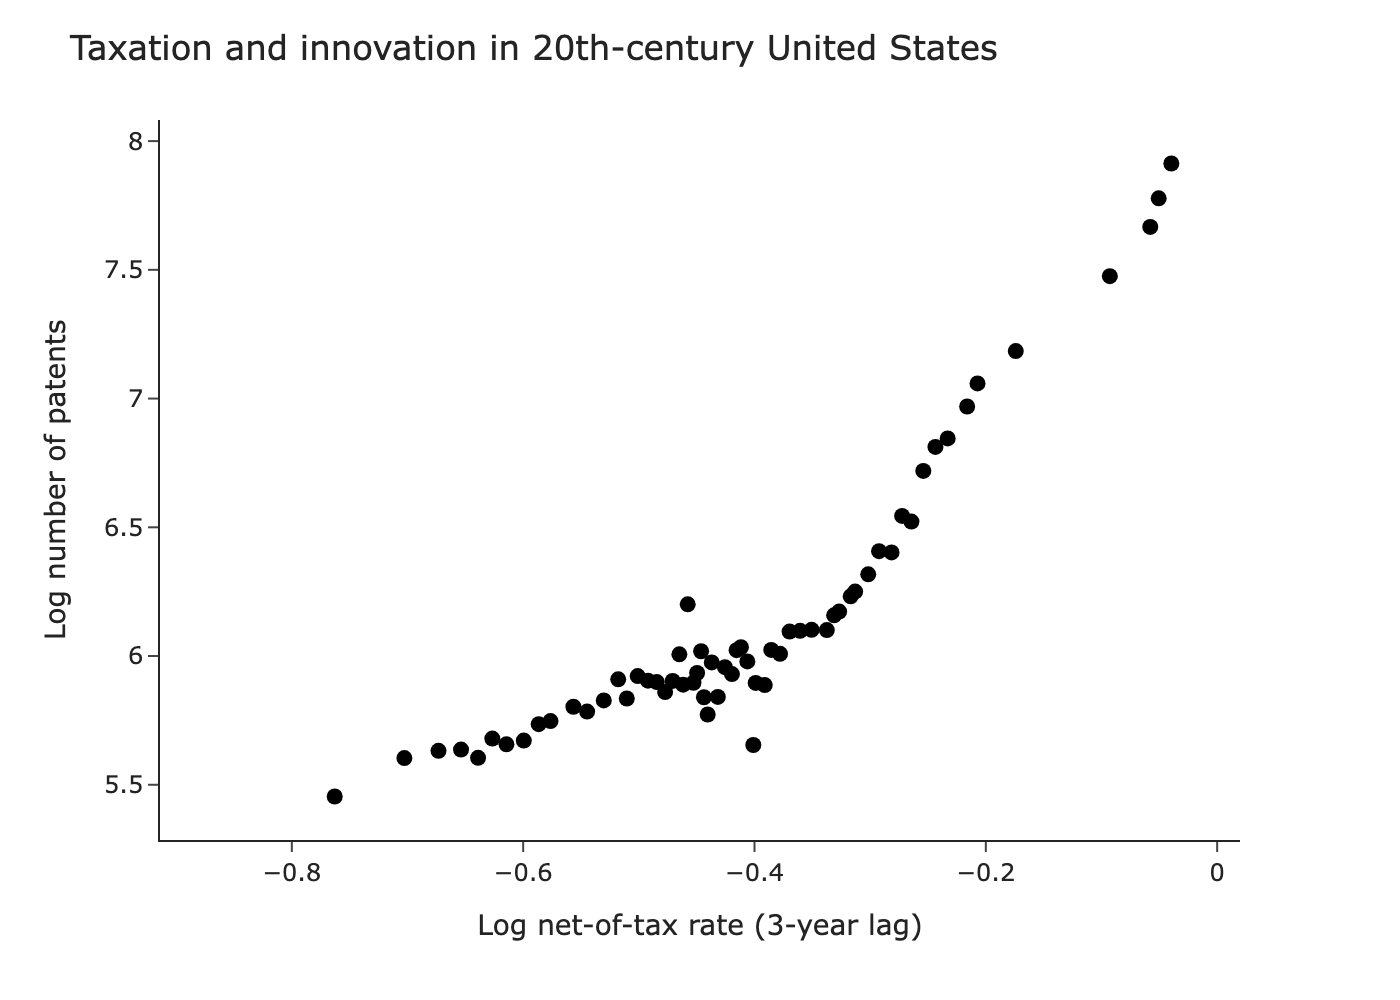
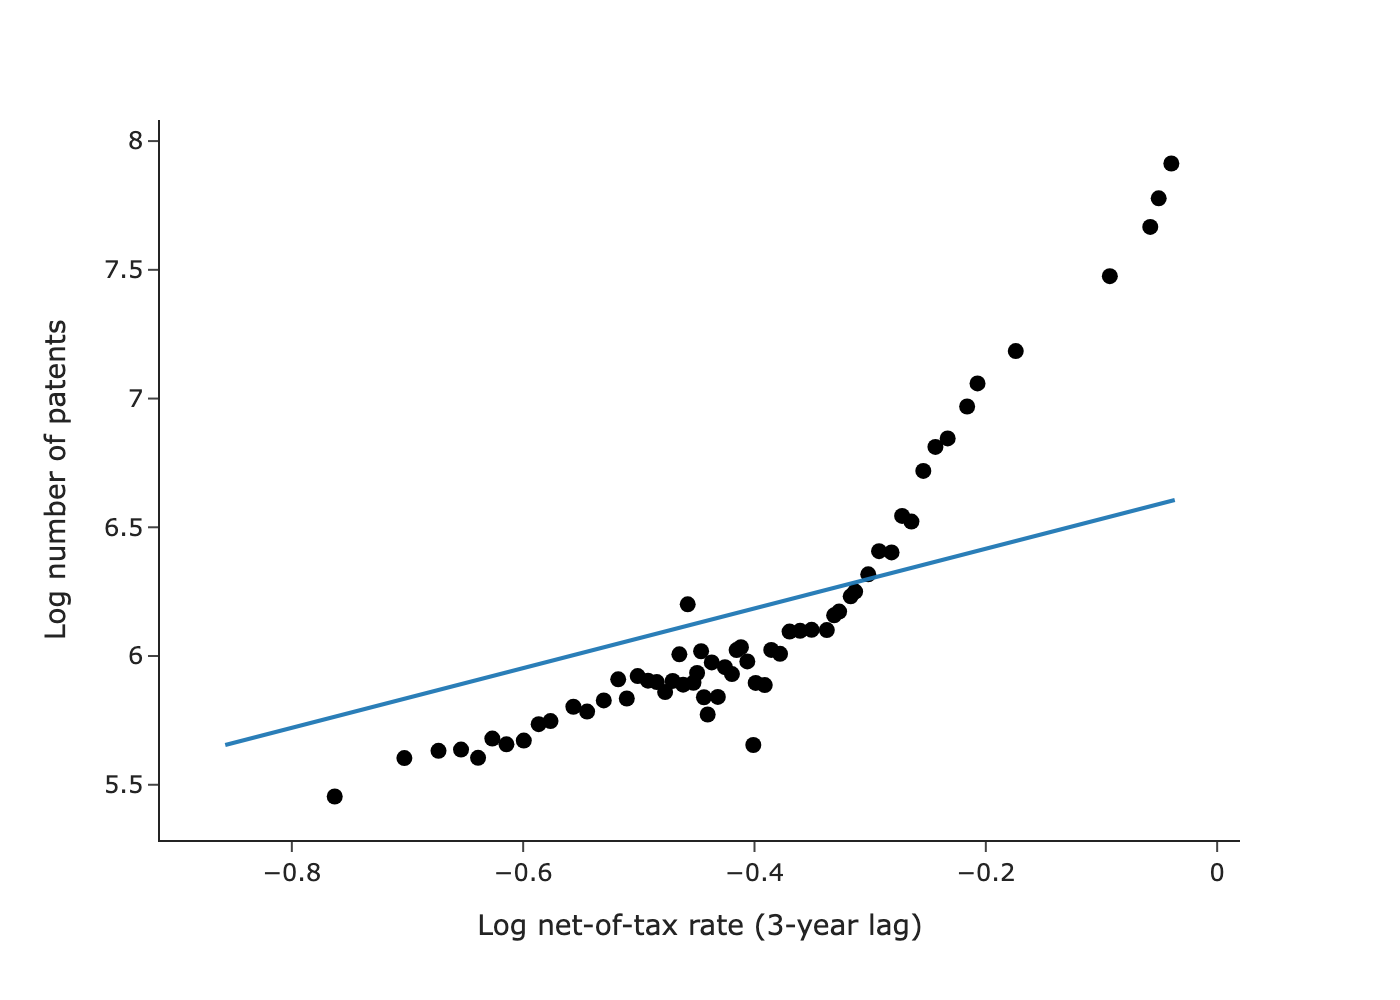
Reorder README examples

diff --git a/scripts/readme/make_plots_readme.py b/scripts/readme/make_plots_readme.py
@@ -108,9 +108,9 @@ def build_readme_plot() -> None:
         x="mtr90_lag3",
         y="lnpat",
         controls=controls,
+        poly_line=1,
     )
     fig.update_layout(
-        title="Taxation and innovation in 20th-century United States",
         xaxis_title="Log net-of-tax rate (3-year lag)",
         yaxis_title="Log number of patents",
     )

diff --git a/README.md b/README.md
@@ -22,9 +22,19 @@ pip install binscatter
 ## Example
 
 ```python
+import plotly.express as px
 import polars as pl
 from binscatter import binscatter
 
+df_gapminder = px.data.gapminder()
+binscatter(df_gapminder, "gdpPercap", "lifeExp")
+```
+
+<img src="https://raw.githubusercontent.com/matthiaskaeding/binscatter/images/images/readme/gapminder_gdp_lifeexp_dpi.png" alt="Binscatter: GDP per capita vs Life Expectancy (DPI selector)" width="640" />
+
+```python
+# Data: Akcigit et al. (2021), Harvard Dataverse, CC0 1.0:
+# https://doi.org/10.7910/DVN/SR410I
 df = pl.read_parquet("artifacts/state_data_processed.parquet")
 binscatter(
     df,
@@ -38,21 +48,11 @@ binscatter(
         "statenum",
         "year",
     ],
+    poly_line=1,
 )
 ```
 
 <img src="https://raw.githubusercontent.com/matthiaskaeding/binscatter/images/images/readme/binscatter_controls.png" alt="Binscatter: taxation and innovation in 20th-century United States" width="640" />
-
-Data: Akcigit, Grigsby, Nicholas, and Stantcheva (2021), [*Replication Data for: Taxation and Innovation in the 20th Century*](https://doi.org/10.7910/DVN/SR410I), Harvard Dataverse, V1 (CC0 1.0).
-
-```python
-import plotly.express as px
-
-df = px.data.gapminder()
-binscatter(df, "gdpPercap", "lifeExp")
-```
-
-<img src="https://raw.githubusercontent.com/matthiaskaeding/binscatter/images/images/readme/gapminder_gdp_lifeexp_dpi.png" alt="Binscatter: GDP per capita vs Life Expectancy (DPI selector)" width="640" />
 
 See the [rendered demo notebook](https://github.com/matthiaskaeding/binscatter/blob/notebooks/demo.ipynb) for more examples. This package implements binscatter following [Cattaneo et al. (2024)](https://doi.org/10.1257/aer.20221576).
 

diff --git a/CHANGELOG.md b/CHANGELOG.md
@@ -3,9 +3,9 @@
 ## Unreleased
 
 ### Changed
-- The README now leads with a taxation-and-innovation binscatter from the CC0
-  replication dataset, using the default automatic bin selection, with a descriptive
-  x-axis and no polynomial overlay.
+- The README now leads with the minimal Gapminder example, followed by a
+  taxation-and-innovation binscatter from the CC0 replication dataset. The latter
+  uses default automatic bin selection, descriptive axes, and a linear overlay.
 
 ### Added
 - `.github/pull_request_template.md`, so new pull requests open pre-filled with four headings — What, Why, Verify, Risk — and comments asking for a body under 200 words that describes the change rather than the diff. Unused sections are meant to be deleted rather than marked "N/A".
